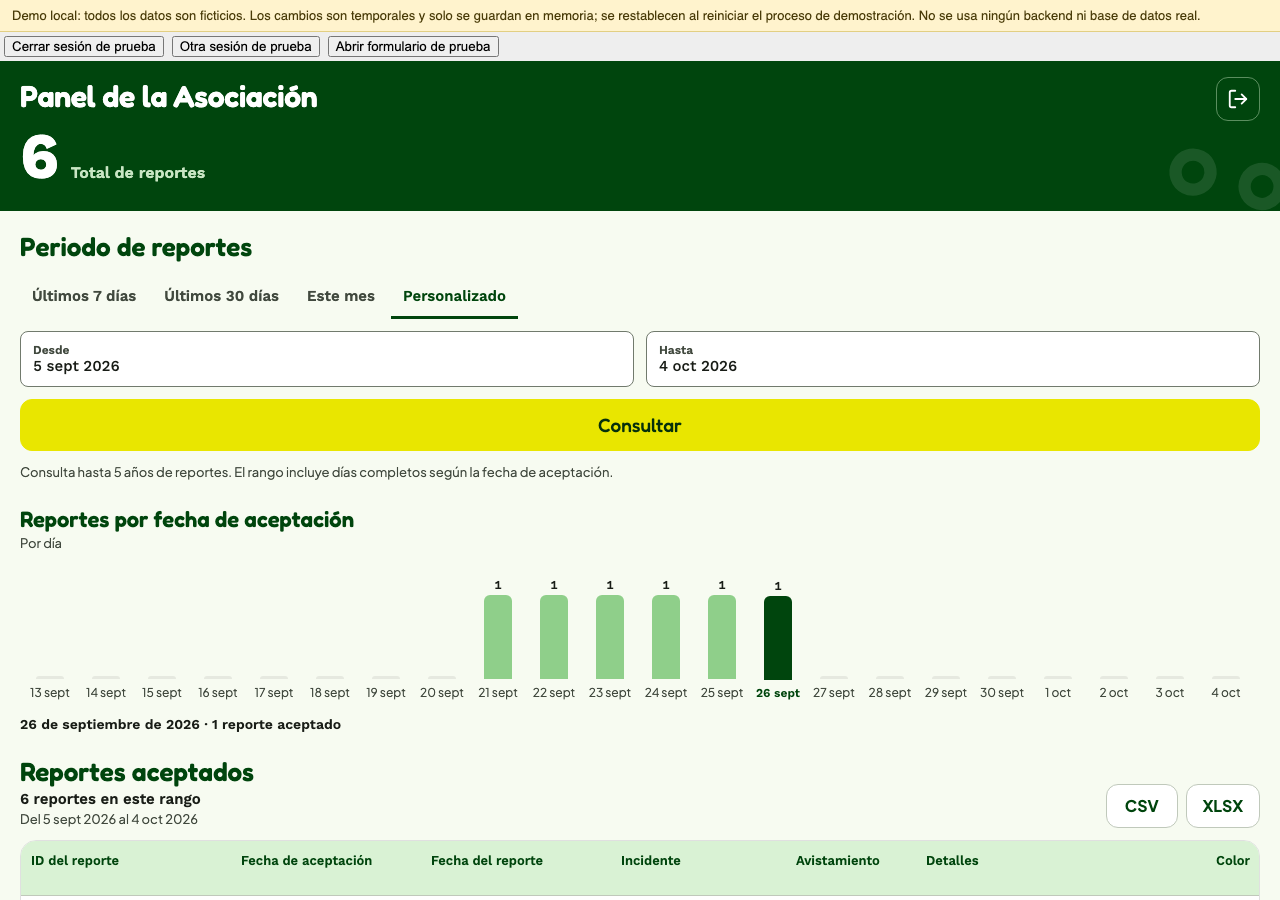
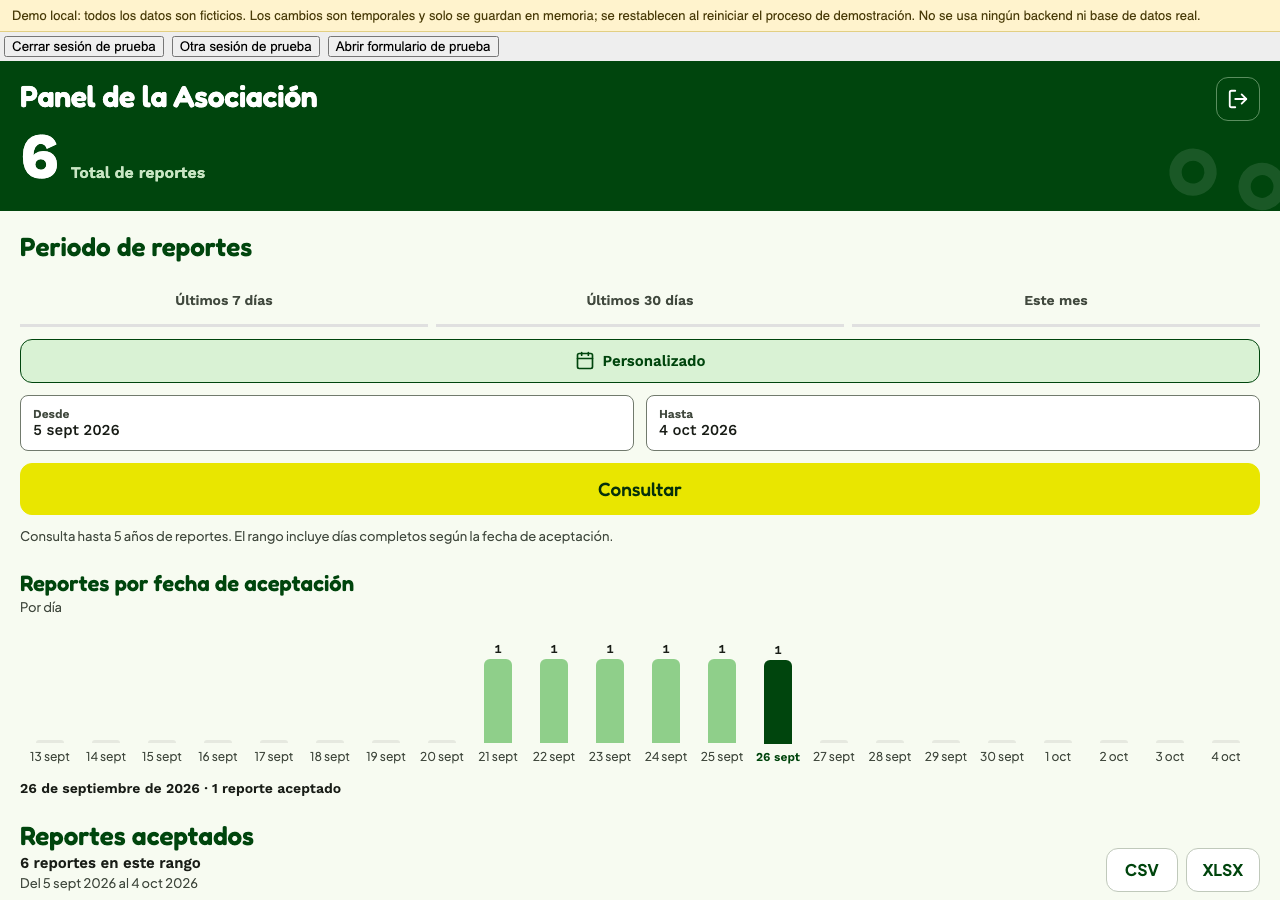
style(design): TD-134 Asociación: Personalizado visible como botón propio con calendario
Las tres opciones rápidas en una fila de tres columnas sin deslizar y Personalizado como botón a todo el ancho con ícono de calendario; al elegirlo aparecen Desde, Hasta y Consultar.

diff --git a/screens/associationDashboardScreen.js b/screens/associationDashboardScreen.js
@@ -140,18 +140,19 @@ export default function AssociationDashboardScreen({ accessToken, displayName, o
   const controls = <>
       <View style={styles.filter}>
         <Text accessibilityRole="header" style={styles.filterTitle}>{t('associationDashboard.filterTitle')}</Text>
-        <ScrollView horizontal showsHorizontalScrollIndicator={false} contentContainerStyle={styles.tabs}>
+        <View style={styles.tabs}>
           {['last7Days', 'last30Days', 'thisMonth'].map((preset) => <Pressable key={preset} accessibilityRole="button"
             accessibilityState={{ selected: activePreset === preset }} disabled={loadingPhase} onPress={() => applyPreset(preset)}
             style={[styles.tab, activePreset === preset && styles.tabActive, loadingPhase && styles.disabled]}>
             <Text style={[styles.tabText, activePreset === preset && styles.tabTextActive]}>{t(`associationDashboard.presets.${preset}`)}</Text>
           </Pressable>)}
-          <Pressable accessibilityRole="button" accessibilityState={{ selected: activePreset === 'custom' }} disabled={loadingPhase}
-            onPress={() => { setActivePreset('custom'); setCalendarField('from'); }}
-            style={[styles.tab, activePreset === 'custom' && styles.tabActive, loadingPhase && styles.disabled]}>
-            <Text style={[styles.tabText, activePreset === 'custom' && styles.tabTextActive]}>{t('associationDashboard.presets.custom')}</Text>
-          </Pressable>
-        </ScrollView>
+        </View>
+        <Pressable accessibilityRole="button" accessibilityState={{ selected: activePreset === 'custom' }} disabled={loadingPhase}
+          onPress={() => { setActivePreset('custom'); setCalendarField('from'); }}
+          style={[styles.customButton, activePreset === 'custom' && styles.customButtonActive, loadingPhase && styles.disabled]}>
+          <Icon name="calendar" size={20} color={colors.primary} />
+          <Text style={styles.customButtonText}>{t('associationDashboard.presets.custom')}</Text>
+        </Pressable>
         {activePreset === 'custom' ? <View style={styles.customRange}>
           <View style={styles.dates}>
             <Pressable accessibilityRole="button" accessibilityLabel={`${t('associationDashboard.from')}: ${displayDay(fromDay)}`}
@@ -239,10 +240,13 @@ const styles = StyleSheet.create({
   pressed: { opacity: 0.7 },
   filter: { gap: spacing.md },
   filterTitle: { fontFamily: fontFamily.display, fontSize: 26, lineHeight: 32, color: colors.primary },
-  tabs: { gap: spacing.xs, paddingRight: spacing.lg },
-  tab: { minHeight: layout.minTouch, justifyContent: 'center', paddingHorizontal: spacing.md, borderBottomWidth: 3, borderBottomColor: 'transparent' },
+  tabs: { flexDirection: 'row', gap: spacing.sm },
+  tab: { flex: 1, minHeight: layout.minTouch + 8, alignItems: 'center', justifyContent: 'center', paddingHorizontal: spacing.xs, borderBottomWidth: 3, borderBottomColor: colors.border },
   tabActive: { borderBottomColor: colors.primary },
-  tabText: { fontFamily: fontFamily.label, fontSize: 15, color: colors.inkMuted }, tabTextActive: { color: colors.primary },
+  tabText: { fontFamily: fontFamily.label, fontSize: 14, lineHeight: 18, textAlign: 'center', color: colors.inkMuted }, tabTextActive: { color: colors.primary },
+  customButton: { flexDirection: 'row', alignItems: 'center', justifyContent: 'center', gap: spacing.sm, minHeight: layout.minTouch, borderRadius: 12, borderWidth: 1, borderColor: colors.outline, backgroundColor: colors.surface },
+  customButtonActive: { backgroundColor: colors.primarySoft, borderColor: colors.primary },
+  customButtonText: { fontFamily: fontFamily.label, fontSize: 15, color: colors.primary },
   customRange: { gap: spacing.md },
   dates: { flexDirection: 'row', gap: spacing.md },
   dateField: { flex: 1, minHeight: 56, borderWidth: 1, borderColor: colors.outline, borderRadius: radius.sm, paddingHorizontal: spacing.md, paddingVertical: spacing.sm, backgroundColor: colors.surface, justifyContent: 'center' },

diff --git a/components/ui/Icon.js b/components/ui/Icon.js
@@ -2,7 +2,7 @@
  * @module components/ui/Icon
  * Single place that maps semantic icon names to lucide glyphs, so screens never import the icon library.
  */
-import { AlertTriangle, Camera, Check, ChevronDown, ChevronLeft, ChevronRight, ChevronUp, Copy, Flag, Gauge, Info, LogOut, MapPin, PawPrint, RefreshCw, Settings, ShieldCheck, X } from 'lucide-react-native';
+import { AlertTriangle, Calendar, Camera, Check, ChevronDown, ChevronLeft, ChevronRight, ChevronUp, Copy, Flag, Gauge, Info, LogOut, MapPin, PawPrint, RefreshCw, Settings, ShieldCheck, X } from 'lucide-react-native';
 import { colors } from '../../theme/index.js';
 
 const glyphs = {
@@ -10,6 +10,7 @@ const glyphs = {
   back: ChevronLeft,
   forward: ChevronRight,
   down: ChevronDown,
+  calendar: Calendar,
   up: ChevronUp,
   check: Check,
   alert: AlertTriangle,
